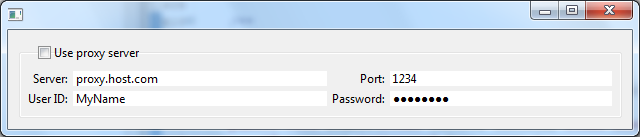
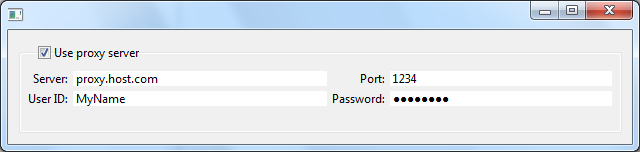
Fix a bug : the content was activated when the checkbox was not selected

diff --git a/src/org/mihalis/opal/CheckBoxGroup/CheckBoxGroup.java b/src/org/mihalis/opal/CheckBoxGroup/CheckBoxGroup.java
@@ -81,6 +81,7 @@ public class CheckBoxGroup extends Composite {
 		final GridData gdButton = new GridData(GridData.BEGINNING, GridData.CENTER, true, false);
 		gdButton.horizontalIndent = 15;
 		this.button.setLayoutData(gdButton);
+		this.button.setSelection(true);
 		this.button.pack();
 
 		this.button.addSelectionListener(new SelectionAdapter() {
@@ -91,9 +92,9 @@ public class CheckBoxGroup extends Composite {
 			@Override
 			public void widgetSelected(final SelectionEvent e) {
 				if (CheckBoxGroup.this.button.getSelection()) {
-					deactivate();
-				} else {
 					activate();
+				} else {
+					deactivate();
 				}
 			}
 		});
